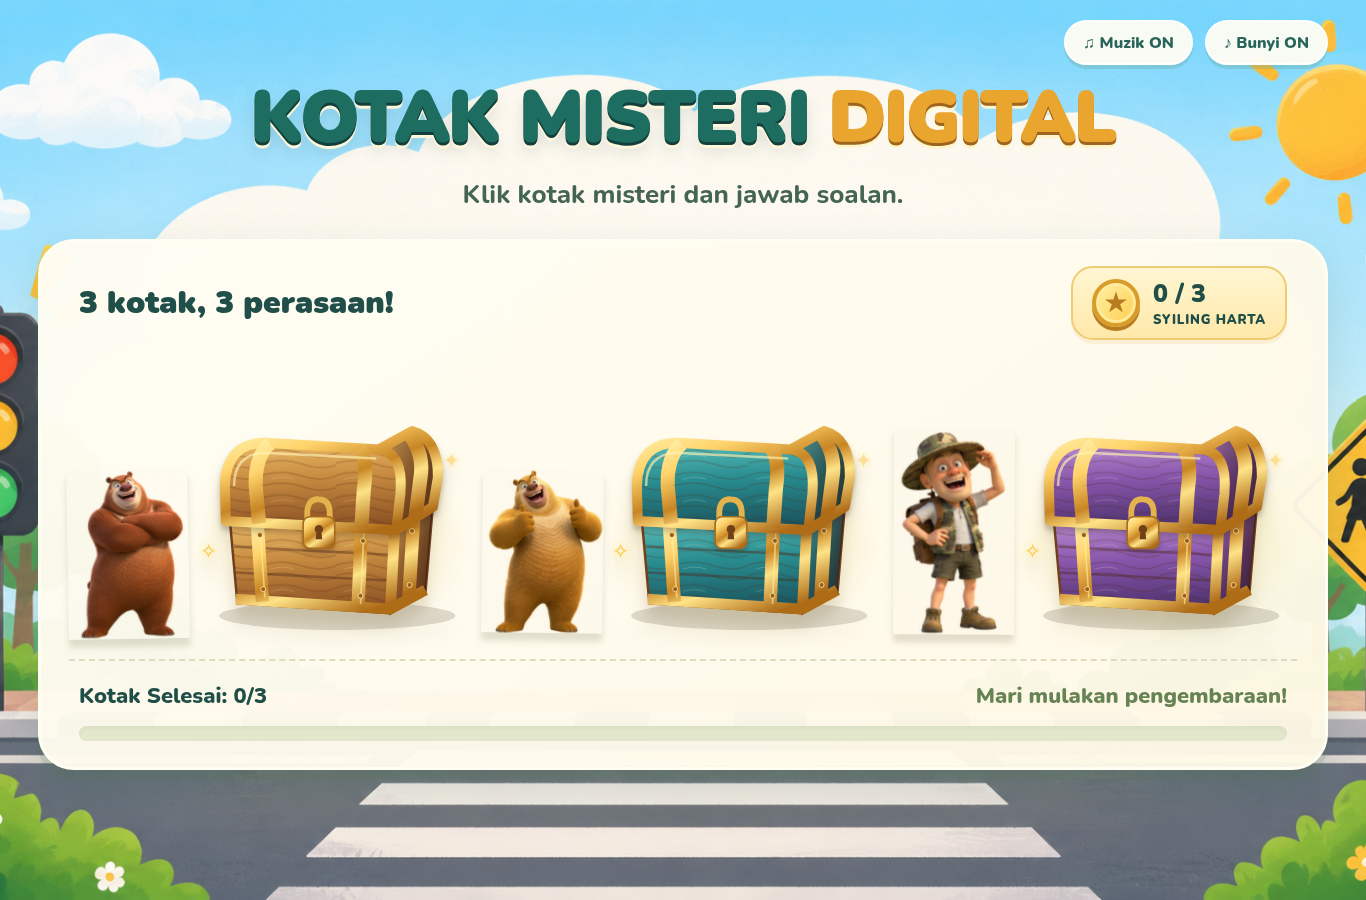
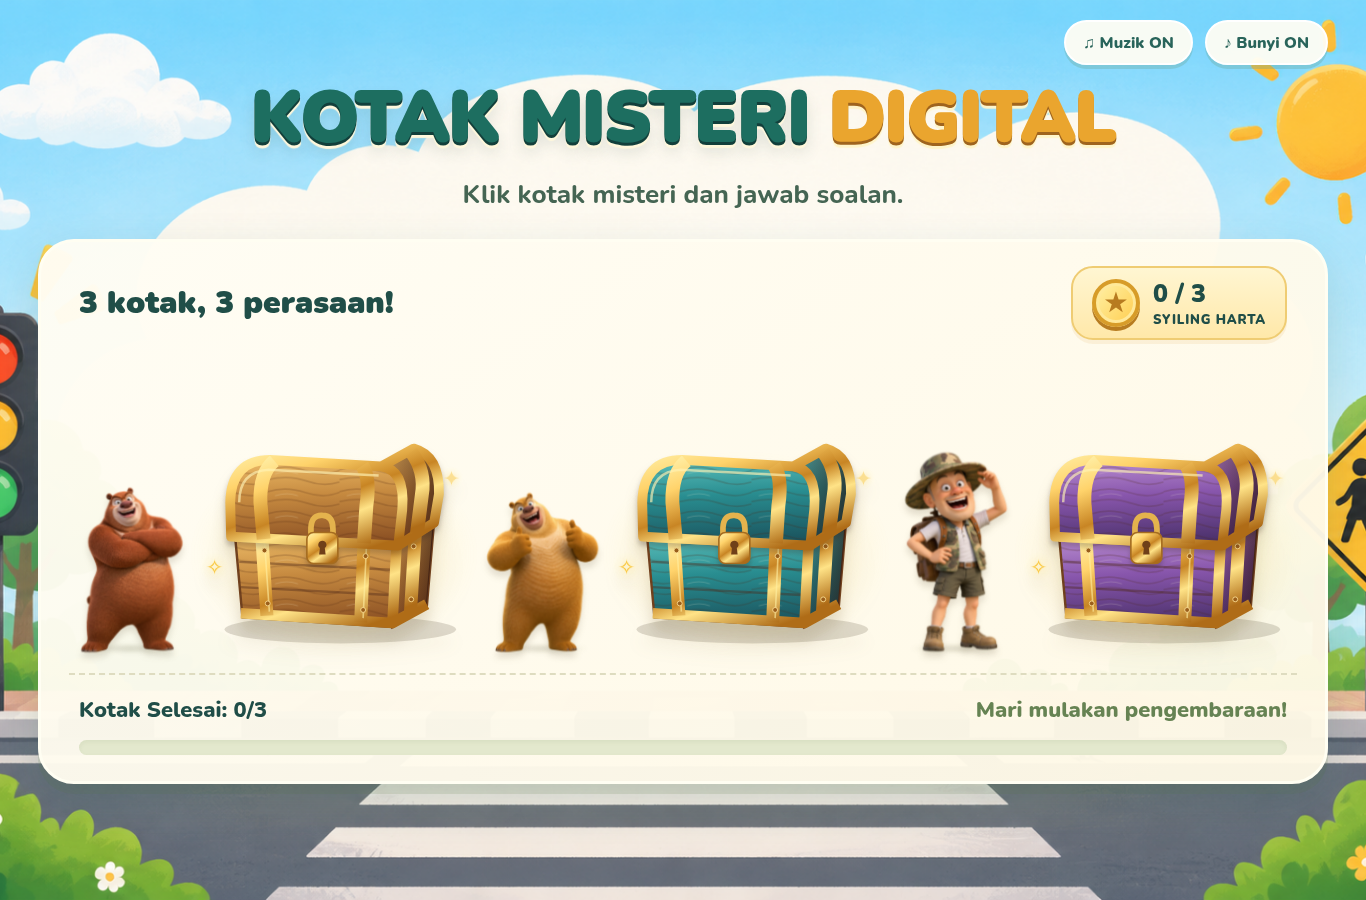
Remove character backgrounds and preserve continuous accessible animations

Changed region(s): [[0.0307, 0.4667, 0.9839, 0.9022]]

diff --git a/script.js b/script.js
@@ -58,10 +58,17 @@ const audio={ctx:null,music:true,sound:true,timer:null,step:0,musicBus:null,sfxB
  effect(kind){if(!this.sound||!this.ctx)return;if(kind==='open')[523,659,784,1047,1319].forEach((f,i)=>this.tone(f,.5,i*.09));if(kind==='wrong'){this.tone(392,.22);this.tone(330,.3,.16);}if(kind==='correct'||kind==='finish'){[523,659,784,1047].forEach((f,i)=>this.tone(f,.45,i*.11));for(let i=0;i<(kind==='finish'?24:12);i++)this.clap(i*.085+Math.random()*.035);}},
  toggle(which){this.start();this[which]=!this[which];if(which==='music'&&this.musicBus)this.musicBus.gain.value=this.music?.2:0;if(which==='sound'&&this.sfxBus)this.sfxBus.gain.value=this.sound?1:0;const b=$(which);b.setAttribute('aria-pressed',String(this[which]));b.querySelector('span').textContent=(which==='music'?'Muzik ':'Bunyi ')+(this[which]?'ON':'OFF');}
 };
-function render(){ $('boxes').innerHTML=QUESTIONS.map((q,i)=>`<div class="adventure"><img class="companion companion-${i}" src="assets/${['02_briar_bear.png','03_bramble_bear.png','04_logger_vick.png'][i]}" alt="${['Briar','Bramble','Logger Vick'][i]}"><button class="box-button ${completed.has(i)?'completed':''}" data-box="${i}" ${completed.has(i)?'disabled':''} aria-label="Kotak ${i+1}${completed.has(i)?', selesai':', buka kotak misteri'}">${chest(q.image)}<span class="completed-badge" aria-hidden="true">✓</span></button></div>`).join('');const n=completed.size;$('coin-total').textContent=n;$('progress-text').textContent=`Kotak Selesai: ${n}/3`;$('progress-fill').style.width=`${n/3*100}%`;document.querySelector('[role=progressbar]').setAttribute('aria-valuenow',n);$('encourage').textContent=['Mari mulakan pengembaraan!','Hebat! Teruskan usaha kamu.','Satu kotak lagi. Kamu boleh!','Syabas! Semua kotak selesai.'][n];}
+function render(){ $('boxes').innerHTML=QUESTIONS.map((q,i)=>`<div class="adventure"><span class="companion-stage" data-companion="${i}"><img class="companion companion-${i}" src="assets/${['briar-transparent.png','bramble-transparent.png','logger-vick-transparent.png'][i]}" alt="${['Briar','Bramble','Logger Vick'][i]}"><span class="companion-sparkles" aria-hidden="true"><i>✧</i><i>✦</i></span></span><button class="box-button ${completed.has(i)?'completed':''}" data-box="${i}" ${completed.has(i)?'disabled':''} aria-label="Kotak ${i+1}${completed.has(i)?', selesai':', buka kotak misteri'}">${chest(q.image)}<span class="completed-badge" aria-hidden="true">✓</span></button></div>`).join('');const n=completed.size;$('coin-total').textContent=n;$('progress-text').textContent=`Kotak Selesai: ${n}/3`;$('progress-fill').style.width=`${n/3*100}%`;document.querySelector('[role=progressbar]').setAttribute('aria-valuenow',n);$('encourage').textContent=['Mari mulakan pengembaraan!','Hebat! Teruskan usaha kamu.','Satu kotak lagi. Kamu boleh!','Syabas! Semua kotak selesai.'][n];}
 function celebrate(big=false){$('confetti').replaceChildren();for(let i=0;i<(big?85:30);i++){const p=document.createElement('i');p.className='confetti-piece'+(big&&i%3===0?' falling-coin':'');if(big&&i%3===0)p.textContent='★';p.style.left=Math.random()*100+'%';p.style.background=['#f5bf44','#64b599','#80c8e3','#ba92c9','#ee8a69'][i%5];p.style.animationDelay=Math.random()*.5+'s';p.style.borderRadius=i%2?'50%':'2px';$('confetti').append(p);}setTimeout(()=>$('confetti').replaceChildren(),3300);}
 function finish(){if(completed.size!==3)return;$('final-boxes').innerHTML=[0,1,2].map(i=>`<div class="final-chest final-chest-${i}">${chest()}</div>`).join('');$('final-dialog').showModal();audio.effect('finish');celebrate(true);}
-async function openBox(i,button){if(opening||completed.has(i))return;audio.start();opening=true;opener=button;button.classList.add('opening');audio.effect('open');await new Promise(r=>setTimeout(r,1450));button.classList.remove('opening');active=i;const q=QUESTIONS[i];$('box-tag').textContent=`KOTAK ${i+1} · MISTERI PERASAAN`;$('scene').src='assets/'+q.image;$('scene').alt=q.alt;$('question-title').textContent=q.question;$('feedback').textContent='';$('feedback').className='';$('next').hidden=true;$('answers').innerHTML=q.options.map((option,j)=>`<button class="answer" data-answer="${j}"><span>${String.fromCharCode(65+j)}</span>${option}</button>`).join('');$('question-dialog').showModal();opening=false;}
+async function openBox(i,button){if(opening||completed.has(i))return;audio.start();opening=true;opener=button;button.classList.add('opening');audio.effect('open');reactCompanion(i);await new Promise(r=>setTimeout(r,1450));button.classList.remove('opening');active=i;const q=QUESTIONS[i];$('box-tag').textContent=`KOTAK ${i+1} · MISTERI PERASAAN`;$('scene').src='assets/'+q.image;$('scene').alt=q.alt;$('question-title').textContent=q.question;$('feedback').textContent='';$('feedback').className='';$('next').hidden=true;$('answers').innerHTML=q.options.map((option,j)=>`<button class="answer" data-answer="${j}"><span>${String.fromCharCode(65+j)}</span>${option}</button>`).join('');$('question-dialog').showModal();opening=false;}
+// A short visual reaction; gameplay and audio state stay untouched.
+function reactCompanion(index){
+ const stage=document.querySelector(`[data-companion="${index}"]`);
+ if(!stage)return;
+ stage.classList.remove('is-happy');void stage.offsetWidth;stage.classList.add('is-happy');
+ setTimeout(()=>stage.classList.remove('is-happy'),1800);
+}
 function answer(index,button){if(active===null||completed.has(active))return;audio.start();const q=QUESTIONS[active];if(index!==q.correct){button.classList.add('wrong');$('feedback').className='error';$('feedback').textContent='Oops! Belum tepat. Cuba sekali lagi!';audio.effect('wrong');setTimeout(()=>button.classList.remove('wrong'),700);return;}completed.add(active);save();button.classList.add('correct');document.querySelectorAll('.answer').forEach(b=>b.disabled=true);$('feedback').className='';$('feedback').textContent='Wah, betul! Syabas!';$('next').hidden=false;audio.effect('correct');celebrate();render();if(completed.size===3){$('next').hidden=true;setTimeout(()=>{if($('question-dialog').open)$('question-dialog').close();finish();},1500);}}
-function closeQuestion(){if(completed.size===3)return;$('question-dialog').close();active=null;const next=document.querySelector(`.box-button[data-box="${opener?.dataset.box}"]`);(next&&!next.disabled?next:document.querySelector('.box-button:not(:disabled)'))?.focus();}
+function closeQuestion(){if(completed.size===3)return;const celebrated=active;$('question-dialog').close();if(completed.has(celebrated))reactCompanion(celebrated);active=null;const next=document.querySelector(`.box-button[data-box="${opener?.dataset.box}"]`);(next&&!next.disabled?next:document.querySelector('.box-button:not(:disabled)'))?.focus();}
 $('boxes').addEventListener('click',e=>{const b=e.target.closest('[data-box]');if(b)openBox(Number(b.dataset.box),b);});$('answers').addEventListener('click',e=>{const b=e.target.closest('[data-answer]');if(b)answer(Number(b.dataset.answer),b);});$('close-question').onclick=closeQuestion;$('next').onclick=closeQuestion;$('question-dialog').addEventListener('cancel',e=>{e.preventDefault();closeQuestion();});$('final-dialog').addEventListener('cancel',e=>e.preventDefault());$('restart').onclick=()=>{audio.start();completed.clear();active=null;save();$('final-dialog').close();$('confetti').replaceChildren();render();document.querySelector('.box-button').focus();};$('music').onclick=()=>audio.toggle('music');$('sound').onclick=()=>audio.toggle('sound');render();if(completed.size===3)finish();

diff --git a/style.css b/style.css
@@ -6,3 +6,28 @@
 @media(prefers-reduced-motion:reduce){*,*:before,*:after{animation:none!important;transition:none!important}.opening .chest-picture{opacity:1;transform:translateY(-50px) scale(1.3)}}
 /* Blend opaque white image backgrounds into the cream stage without editing the supplied PNGs. */
 .adventure{isolation:auto}
+/* Transparent cutouts stand on the same stage as their chests. */
+.companion-stage{display:block;position:relative;align-self:end;width:100%;z-index:2;pointer-events:none;background:none;border:0;box-shadow:none;line-height:0}
+.companion-stage:before{content:'';position:absolute;left:14%;right:10%;bottom:0;height:9px;border-radius:50%;background:radial-gradient(ellipse,#4a49283d,transparent 72%);filter:blur(2px)}
+.companion{display:block;width:100%;height:clamp(185px,19vw,270px);object-fit:contain;object-position:center bottom;mix-blend-mode:normal;background:transparent;border:0;border-radius:0;box-shadow:none;filter:drop-shadow(0 6px 3px #58482b29);transform-origin:50% 98%;will-change:transform}
+.companion-0{animation:briar-breathe 5s ease-in-out infinite}
+.companion-1{animation:bramble-bounce 3.6s ease-in-out infinite;animation-delay:-1.2s}
+.companion-2{animation:vick-sway 5.4s ease-in-out infinite;animation-delay:-2.6s}
+.companion-sparkles{position:absolute;inset:0;pointer-events:none;color:#eebc37;text-shadow:0 0 9px #fff2a4;line-height:1}
+.companion-sparkles i{position:absolute;font-style:normal;opacity:0;top:25%;left:4%;font-size:19px;animation:companion-spark 8s ease-in-out infinite}
+.companion-sparkles i+ i{top:58%;left:auto;right:0;font-size:15px;animation-delay:1s}
+.adventure:nth-child(2) .companion-sparkles i{animation-delay:2.6s}.adventure:nth-child(3) .companion-sparkles i{animation-delay:5.2s}
+.is-happy .companion{animation:companion-cheer .6s ease-in-out 3}
+.is-happy .companion-sparkles i{animation:companion-spark 1s ease-out 2;animation-delay:0s}
+@keyframes briar-breathe{0%,100%{transform:translateY(0) rotate(-.7deg)}35%{transform:translateY(-3px) rotate(.8deg)}70%{transform:translateY(-1px) rotate(-.3deg)}}
+@keyframes bramble-bounce{0%,45%,100%{transform:translateY(0) rotate(-.6deg)}22%{transform:translateY(-6px) rotate(.8deg)}70%{transform:translateY(-3px) rotate(.3deg)}}
+@keyframes vick-sway{0%,100%{transform:translateX(-2px) rotate(-1deg)}50%{transform:translateX(2px) rotate(1deg)}}
+@keyframes companion-cheer{0%,100%{transform:translateY(0) rotate(0)}35%{transform:translateY(-10px) rotate(-2deg)}65%{transform:translateY(-5px) rotate(2deg)}}
+@keyframes companion-spark{0%,70%,100%{opacity:0;transform:translateY(4px) scale(.6)}78%,87%{opacity:.9;transform:translateY(-3px) scale(1)}94%{opacity:0;transform:translateY(-9px) scale(.8)}}
+@media(min-width:1500px){.companion{height:290px}}
+@media(max-width:1000px) and (min-width:701px){.companion{height:190px}}
+@media(max-width:700px){.companion{height:235px;max-height:58vw}}
+@media(prefers-reduced-motion:reduce){.companion,.is-happy .companion,.companion-sparkles i,.is-happy .companion-sparkles i{animation:none!important;transform:none!important;will-change:auto}.companion-sparkles{display:none}}
+/* Leave room for the gentle sway so character silhouettes never reach the chest. */
+.adventure{grid-template-columns:minmax(0,3fr) minmax(0,7fr);column-gap:8px}
+@media(max-width:700px){.adventure{grid-template-columns:minmax(0,34fr) minmax(0,66fr)}}

diff --git a/README.md b/README.md
@@ -25,3 +25,6 @@ Permainan asal dikekalkan. Peti kini menggunakan SVG berlapis yang diinspirasika
 Watak baharu: `02_briar_bear.png` di sisi Kotak 1, `03_bramble_bear.png` di sisi Kotak 2 dan `04_logger_vick.png` di sisi Kotak 3. `05_three_characters.png` digunakan pada sambutan akhir. Semua PNG asal dikekalkan tanpa pemampatan, pemotongan atau perubahan piksel. ZIP baharu tidak mengandungi gambar situasi; tiga gambar asal terus digunakan.
 
 Fon Nunito dimuatkan secara tempatan; lesen SIL Open Font License disertakan dalam `assets/Nunito-OFL.txt`. Teks kemajuan dan syiling kekal dinamik, bukannya ditetapkan pada 2/3. Pada telefon, tiga pasangan watak dan peti disusun menegak supaya tidak bertindih.
+
+## Transparent character integration
+The main screen uses `briar-transparent.png`, `bramble-transparent.png` and `logger-vick-transparent.png`: background-removal edits of the supplied individual character images with real PNG alpha transparency. Original supplied files remain available. No CSS white-keying, blending, background cards or clipping is used for the cutouts. Whole-character breathing, bouncing and swaying loops preserve the supplied poses; these are not skeletal arm or eyelid animations. Occasional sparkles and a brief happy reaction accompany chest opening and returning after a correct answer. All character motion and sparkles stop when reduced motion is requested.

diff --git a/TESTING.md b/TESTING.md
@@ -24,3 +24,6 @@ Batasan hos: relay sites-preview tidak tersedia. GitHub Pages memerlukan pemilik
 - Kawalan muzik/bunyi bebas dan keadaan AudioContext disemak; tiada ralat JavaScript.
 - Imej baharu, imej situasi dan latar dimuatkan; tangkapan skrin komputer, tablet dan telefon diperiksa.
 - Fon Nunito disimpan bersama projek untuk mengelakkan kebergantungan CDN semasa bermain.
+
+## Transparent characters
+Verified PNG alpha ranges 0–255 with transparent canvas corners and visible full-body silhouettes. Chromium checks cover all three cutout images loading, normal blend mode, three distinct looping animations, character/chest separation at 1366/1024/768/390px, happy reaction and reduced-motion disabling animation and sparkles. The complete question/retry/coin/audio/final/reset regression flow also passes. Original source PNGs remain unchanged; main-screen references use the new alpha cutouts.
